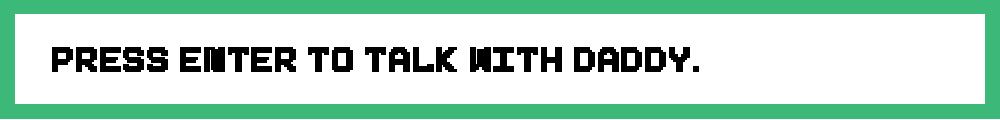
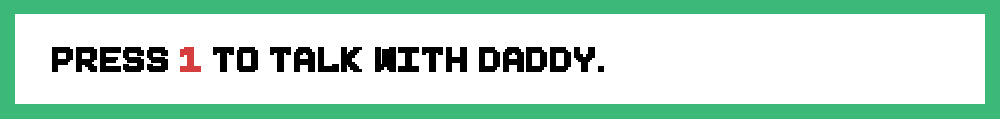
Trap1 state 4

Changed region(s): [[0.155, 0.375, 0.713, 0.6]]

diff --git a/SatoshiPajonpai/main.cpp b/SatoshiPajonpai/main.cpp
@@ -72,6 +72,9 @@ int long main()
 	sf::Texture mushroomTexture;
 	mushroomTexture.loadFromFile("assets/textures/Mushroom.png");
 
+	sf::Texture DocterDown;
+	DocterDown.loadFromFile("assets/textures/DocterDown.png");
+
 	// TextImage
 	sf::Texture foundKey;
 	foundKey.loadFromFile("assets/textImages/TextKey.png");
@@ -93,6 +96,12 @@ int long main()
 
 	sf::Texture TextTalkToDocter;
 	TextTalkToDocter.loadFromFile("assets/textImages/TextToTalkDocter.png");
+
+	sf::Texture TalkWithDocter;
+	TalkWithDocter.loadFromFile("assets/textImages/TextToWithDocter1.png");
+
+	sf::Texture TextDoorLocked;
+	TextDoorLocked.loadFromFile("assets/textImages/TextDoorLocked.png");
 
 	//==========================================================================================================================================//
 	// Clock 
@@ -187,7 +196,7 @@ int long main()
 	//==========================================================================================================================================// 
 	// State obj 
 
-	int state = 3;
+	int state = 1;
 	int pixel = 16;
 	int randData1;
 	int countDie = 0;
@@ -202,7 +211,7 @@ int long main()
 	while (true)
 	{
 		// status state //
-		bool checkPokeballTrap1 = false;
+		bool checkPokeballTrap1 = false; //-----> state 2
 		bool checkTrap2 = false;
 		bool checkExitTrap2 = false;
 		bool checkTrap3 = false;
@@ -215,6 +224,9 @@ int long main()
 		bool trap6_2 = false;
 		bool trap6_3 = false;
 		bool trap6_4 = false;
+
+		bool state4_CheckTrap1 = false;
+
 		
 		// Maps State //
 		if (state == 1)
@@ -266,7 +278,7 @@ int long main()
 
 			//Platform Init
 			Platform door(nullptr, sf::Vector2f(34.f, 10.f), sf::Vector2f(113.f * 64 / 16, 255.f * 64 / 16));
-			Platform die(&dieTexture, sf::Vector2f(58.f * 2, 94.f * 1.5), sf::Vector2f((16 * 7) * 4 - 23, 16 * 11 * 4));
+			Platform die(&dieTexture, sf::Vector2f(56.f * 2, 82.f * 1.5), sf::Vector2f((16 * 7) * 4 - 23, 16 * 11 * 4));
 
 			//Run Game
 			while (window.isOpen())
@@ -391,20 +403,20 @@ int long main()
 		{		
 			// Set Position
 			player.SetPosition(576, 751);
-
+		
 			// Background
 			sf::Texture backgroundState5Texture;
 			backgroundState5Texture.loadFromFile("assets/maps/Map2.png");
 			Platform Background2(&backgroundState5Texture, sf::Vector2f(576 * 64 / 16, 529 * 64 / 16), sf::Vector2f(576 * 64 / 32, 529 * 64 / 32));
 
 			// Platform init
-			Platform trap1Die(&dieTexture, sf::Vector2f(58.f * 2, 94.f * 1.5), sf::Vector2f((16 - 8) * 4, (368 - 8) * 4));
-			Platform trap2Die(&dieTexture, sf::Vector2f(58.f * 2, 94.f * 1.5), sf::Vector2f((368 - 8) * 4, (368 - 8) * 4));
+			Platform trap1Die(&dieTexture, sf::Vector2f(56.f * 2, 82.f * 1.5), sf::Vector2f((16 - 8) * 4, (368 - 8) * 4));
+			Platform trap2Die(&dieTexture, sf::Vector2f(56.f * 2, 82.f * 1.5), sf::Vector2f((368 - 8) * 4, (368 - 8) * 4));
 
-			Platform trap3Die(&dieUpTexture, sf::Vector2f(58.f * 2, 94.f * 1.5), sf::Vector2f((208 - 8) * 4, (464 - 8) * 4));
-			Platform trap4Die(&dieTexture, sf::Vector2f(58.f * 2, 94.f * 1.5), sf::Vector2f((496 - 8) * 4, (496 - 8) * 4));
-			Platform trap5Die(&dieTexture, sf::Vector2f(58.f * 2, 94.f * 1.5), sf::Vector2f((512 - 8) * 4, (448 - 8) * 4));
-			Platform trap6Die(&dieTexture, sf::Vector2f(58.f * 2, 94.f * 1.5), sf::Vector2f((496 - 8) * 4, (400 - 8) * 4));
+			Platform trap3Die(&dieUpTexture, sf::Vector2f(56.f * 2, 82.f * 1.5), sf::Vector2f((208 - 8) * 4, (464 - 8) * 4));
+			Platform trap4Die(&dieUpTexture, sf::Vector2f(56.f * 2, 82.f * 1.5), sf::Vector2f((496 - 8) * 4, (496 - 8) * 4));
+			Platform trap5Die(&dieUpTexture, sf::Vector2f(56.f * 2, 82.f * 1.5), sf::Vector2f((512 - 8) * 4, (448 - 8) * 4));
+			Platform trap6Die(&dieUpTexture, sf::Vector2f(56.f * 2, 82.f * 1.5), sf::Vector2f((496 - 8) * 4, (400 - 8) * 4));
 
 			Platform door1(nullptr, sf::Vector2f(64, 64), sf::Vector2f(576, 751 - 70));
 			Platform door2(nullptr, sf::Vector2f(15*4, 15*4), sf::Vector2f(500.5*4, 320*4));
@@ -774,7 +786,7 @@ int long main()
 					if (sf::Keyboard::isKeyPressed(sf::Keyboard::Num1))
 					{
 						Platform TextDieMedicineTrap3(&TextDieMedicine, sf::Vector2f(1000, 120), sf::Vector2f(player.GetPosition().x, player.GetPosition().y + 400));
-						Platform trap3Die(&dieTexture, sf::Vector2f(58.f * 2, 94.f * 1.5), sf::Vector2f(player.GetPosition().x, player.GetPosition().y));
+						Platform trap3Die(&dieTexture, sf::Vector2f(56.f * 2, 82.f * 1.5), sf::Vector2f(player.GetPosition().x, player.GetPosition().y));
 						//Die
 						std::cout << "\nDIE\n";
 						while (window.isOpen())
@@ -1203,7 +1215,8 @@ int long main()
 			}
 
 			// Platform init
-			Platform floorDocter(nullptr, sf::Vector2f(1.f, 80.f), sf::Vector2f((128 - 8) * 4, (80 - 8) * 4 - 20));
+			Platform floorDocter(nullptr, sf::Vector2f(5.f, 80.f), sf::Vector2f((128 - 8) * 4, (80 - 8) * 4 - 20));
+			Platform door(nullptr, sf::Vector2f(32.f * 4 - 20,  20.f), sf::Vector2f((112) * 4, (160) * 4));
 			
 			// Run Game
 			while (window.isOpen())
@@ -1260,6 +1273,12 @@ int long main()
 				//NPC Collision
 				Docter1.GetCollider().CheckCollision(playerCollision, 1.0f);
 				
+				//Goto State 4
+				if (player.GetGlobalBounds().intersects(door.GetGlobalBounds()))
+				{
+					state = 4;
+					break;
+				}
 
 				// Draw
 				view.setCenter(player.GetPosition());
@@ -1268,14 +1287,193 @@ int long main()
 				Background3.Draw(window);
 				player.Draw(window);
 				Docter1.Draw(window);
-				
-
+	
+				//Docter Text to Talk
 				if (floorDocter.GetGlobalBounds().intersects(player.GetGlobalBounds()))
 				{
 					Platform TalkToDocter(&TextTalkToDocter, sf::Vector2f(1000, 120), sf::Vector2f(player.GetPosition().x, player.GetPosition().y + 400));
+					Platform DocterAtHome(&DocterDown, sf::Vector2f(64, 80), sf::Vector2f((128 - 8) * 4, (80 - 8) * 4 - 25));
 					TalkToDocter.Draw(window);
+					if (sf::Keyboard::isKeyPressed(sf::Keyboard::Num1))
+					{
+						Platform BoxTalkWithDocter1(&TalkWithDocter, sf::Vector2f(1000, 120), sf::Vector2f(player.GetPosition().x, player.GetPosition().y + 400));
+						while (1)
+						{
+							// Close Window
+							sf::Event evnt;
+							while (window.pollEvent(evnt))
+							{
+								switch (evnt.type)
+								{
+								case sf::Event::Closed:
+									window.close();
+									break;
+								case sf::Event::Resized:
+									std::cout << "\Resized\n";
+									ResizeView(window, view);
+									break;
+								}
+							}
+							if (sf::Keyboard::isKeyPressed(sf::Keyboard::Return))
+							{
+								break;
+							}
+
+							Background3.Draw(window);
+							DocterAtHome.Draw(window);
+							player.Draw(window);
+							BoxTalkWithDocter1.Draw(window);
+
+							window.setView(view);
+							window.display();
+						}
+					}
 				}
 
+				window.setView(view);
+				window.display();
+			}
+		}
+		else if (state == 4)
+		{
+			// Set Position
+			player.SetPosition((512 - 8) * 4, (352 - 8) * 4);
+
+			// Background
+			sf::Texture backgroundState5Texture;
+			backgroundState5Texture.loadFromFile("assets/maps/Map2.png");
+			Platform Background2(&backgroundState5Texture, sf::Vector2f(576 * 64 / 16, 529 * 64 / 16), sf::Vector2f(576 * 64 / 32, 529 * 64 / 32));
+
+			// BitMap Init
+			std::vector<Bitmap> block0;
+			int outdoor[33][36] = {
+									{1, 1, 1, 1, 1, 1, 1, 1, 1, 1, 1, 1, 1, 1, 1, 1, 1, 1, 1, 1, 1, 1, 1, 1, 1, 1, 1, 1, 1, 1, 1, 1, 1, 1, 1, 1},
+									{1, 1, 1, 1, 0, 0, 0, 0, 0, 0, 0, 0, 0, 0, 0, 0, 0, 0, 0, 0, 0, 1, 1, 1, 1, 1, 1, 1, 1, 1, 1, 1, 1, 1, 1, 1},
+									{1, 0, 0, 0, 0, 0, 0, 0, 0, 0, 0, 0, 0, 0, 0, 0, 0, 0, 0, 0, 0, 1, 1, 1, 1, 1, 1, 1, 1, 1, 1, 1, 1, 1, 1, 1},
+									{1, 0, 0, 0, 0, 0, 0, 0, 1, 1, 1, 1, 1, 0, 0, 0, 0, 0, 0, 0, 0, 0, 0, 0, 0, 0, 1, 1, 1, 1, 1, 1, 1, 1, 1, 1},
+									{1, 0, 0, 0, 0, 1, 1, 1, 1, 1, 1, 1, 1, 0, 0, 0, 0, 0, 0, 0, 0, 0, 0, 0, 0, 0, 1, 1, 1, 1, 1, 1, 1, 1, 1, 1},
+									{1, 0, 0, 0, 0, 1, 1, 1, 1, 1, 1, 1, 1, 0, 0, 0, 0, 0, 0, 0, 0, 0, 0, 0, 0, 0, 1, 1, 1, 1, 1, 1, 1, 1, 1, 1},
+									{1, 0, 0, 0, 0, 1, 1, 1, 1, 1, 1, 1, 1, 1, 1, 0, 0, 0, 0, 0, 0, 0, 0, 0, 0, 0, 1, 1, 1, 1, 1, 1, 1, 1, 1, 1},
+									{1, 0, 0, 0, 0, 1, 1, 1, 1, 1, 1, 1, 1, 1, 1, 0, 0, 0, 0, 0, 0, 0, 0, 0, 0, 0, 1, 1, 1, 1, 1, 1, 1, 1, 1, 1},
+									{1, 0, 0, 0, 0, 1, 1, 1, 1, 1, 1, 1, 1, 1, 1, 1, 0, 0, 0, 0, 0, 0, 0, 1, 1, 1, 1, 1, 1, 1, 1, 1, 1, 1, 1, 1},
+									{1, 0, 0, 0, 0, 1, 1, 1, 1, 1, 1, 1, 1, 1, 1, 1, 0, 0, 0, 0, 0, 0, 0, 1, 1, 1, 1, 1, 1, 1, 1, 1, 1, 1, 1, 1},
+									{1, 0, 0, 0, 0, 1, 1, 1, 1, 1, 1, 1, 1, 1, 1, 1, 0, 0, 0, 0, 0, 0, 0, 1, 1, 1, 1, 1, 1, 1, 1, 1, 1, 1, 1, 1},
+									{1, 0, 0, 0, 0, 0, 0, 1, 0, 0, 0, 0, 0, 0, 0, 0, 0, 0, 0, 0, 0, 1, 1, 1, 1, 1, 1, 1, 1, 1, 1, 1, 1, 1, 1, 1},
+									{1, 0, 0, 0, 0, 0, 0, 0, 0, 0, 0, 0, 0, 0, 0, 0, 0, 0, 0, 0, 0, 1, 1, 1, 1, 1, 1, 1, 1, 1, 1, 1, 1, 1, 1, 1},
+									{1, 1, 1, 0, 0, 0, 0, 0, 0, 0, 0, 0, 0, 0, 0, 0, 0, 0, 0, 1, 1, 1, 1, 1, 1, 1, 1, 1, 1, 1, 1, 1, 1, 1, 1, 1},
+									{1, 1, 1, 1, 0, 0, 1, 0, 0, 0, 0, 1, 0, 0, 0, 0, 0, 0, 0, 1, 1, 1, 1, 1, 1, 1, 1, 1, 1, 1, 1, 1, 1, 1, 1, 1},
+									{1, 1, 1, 1, 1, 1, 1, 0, 0, 0, 0, 1, 1, 1, 1, 1, 1, 1, 1, 1, 1, 1, 1, 1, 1, 1, 1, 1, 1, 1, 1, 1, 1, 1, 1, 1},
+									{1, 1, 1, 1, 1, 1, 1, 0, 0, 0, 0, 1, 1, 1, 1, 1, 1, 1, 1, 1, 1, 1, 1, 1, 1, 1, 1, 1, 1, 1, 1, 1, 1, 1, 1, 1},
+									{1, 1, 1, 1, 1, 1, 1, 0, 0, 0, 0, 1, 1, 1, 1, 1, 1, 1, 1, 1, 1, 1, 1, 1, 1, 1, 1, 1, 1, 1, 1, 1, 1, 1, 1, 1},
+									{1, 1, 1, 1, 1, 1, 1, 0, 0, 0, 0, 1, 1, 1, 1, 1, 1, 1, 1, 1, 1, 1, 1, 1, 0, 0, 1, 1, 1, 1, 1, 1, 1, 1, 1, 1},
+									{1, 1, 1, 1, 1, 1, 1, 0, 0, 0, 0, 1, 1, 1, 1, 1, 1, 1, 1, 1, 1, 1, 1, 1, 0, 0, 0, 0, 1, 1, 1, 1, 1, 1, 1, 1},
+									{0, 0, 0, 0, 0, 0, 1, 0, 0, 0, 0, 1, 0, 0, 0, 0, 0, 1, 0, 0, 0, 0, 0, 1, 0, 0, 0, 0, 1, 1, 0, 0, 1, 1, 1, 1},
+									{0, 0, 0, 0, 0, 0, 1, 0, 0, 0, 0, 1, 0, 0, 0, 0, 0, 1, 0, 0, 0, 0, 0, 1, 0, 0, 0, 0, 0, 1, 0, 0, 1, 1, 1, 1},
+									{0, 0, 1, 1, 1, 1, 1, 0, 0, 0, 0, 1, 0, 0, 1, 0, 0, 1, 0, 0, 1, 0, 0, 1, 1, 1, 1, 1, 1, 1, 0, 0, 1, 0, 0, 0},
+									{0, 0, 0, 0, 0, 0, 0, 0, 0, 0, 0, 0, 0, 0, 1, 0, 0, 0, 0, 0, 1, 0, 0, 0, 0, 0, 0, 0, 0, 0, 0, 0, 1, 0, 0, 0},
+									{0, 0, 0, 0, 0, 0, 0, 0, 0, 0, 0, 0, 0, 0, 1, 0, 0, 0, 0, 0, 1, 0, 0, 0, 0, 0, 0, 0, 0, 0, 0, 0, 1, 0, 0, 0},
+									{0, 0, 1, 1, 1, 1, 1, 1, 0, 0, 1, 1, 1, 1, 1, 1, 1, 1, 1, 1, 1, 1, 1, 1, 1, 1, 1, 1, 1, 1, 0, 0, 1, 0, 0, 0},
+									{0, 0, 1, 0, 0, 0, 0, 1, 0, 0, 1, 0, 0, 0, 0, 0, 0, 0, 0, 0, 0, 0, 0, 0, 0, 0, 0, 0, 0, 0, 0, 0, 1, 0, 0, 0},
+									{0, 0, 1, 0, 0, 0, 0, 0, 0, 0, 1, 0, 0, 0, 0, 0, 0, 0, 0, 0, 0, 0, 0, 0, 0, 0, 0, 0, 0, 0, 0, 0, 1, 0, 0, 0},
+									{0, 0, 1, 0, 0, 0, 0, 0, 0, 0, 1, 0, 0, 1, 0, 0, 1, 1, 1, 1, 1, 1, 1, 1, 1, 1, 1, 1, 1, 1, 0, 0, 1, 0, 0, 0},
+									{0, 0, 1, 0, 0, 0, 0, 1, 0, 0, 1, 0, 0, 1, 0, 0, 1, 0, 0, 0, 0, 0, 0, 0, 0, 0, 0, 0, 0, 1, 0, 0, 1, 0, 0, 0},
+									{0, 0, 1, 1, 1, 1, 1, 1, 0, 0, 1, 0, 0, 1, 0, 0, 1, 1, 1, 1, 1, 1, 1, 1, 1, 1, 1, 1, 1, 1, 0, 0, 1, 0, 0, 0},
+									{0, 0, 1, 0, 0, 0, 0, 0, 0, 0, 0, 0, 0, 1, 0, 0, 0, 0, 0, 0, 0, 0, 0, 0, 0, 0, 0, 0, 0, 0, 0, 0, 1, 0, 0, 0},
+									{0, 0, 1, 0, 0, 0, 0, 0, 0, 0, 0, 0, 0, 1, 0, 0, 0, 0, 0, 0, 0, 0, 0, 0, 0, 0, 0, 0, 0, 0, 0, 0, 1, 0, 0, 0},
+			};
+
+			// DrawBitMap
+			for (int mapX = 0; mapX < 36; mapX++)
+			{
+				for (int mapY = 0; mapY < 33; mapY++)
+				{
+					if (outdoor[mapY][mapX] == 1)
+					{
+						Bitmap outdoor(nullptr, sf::Vector2f(((mapX) * 64.f) + 32.f, ((mapY) * 64.f) + 32.f), sf::Vector2f(64.f, 64.f));
+						block0.push_back(outdoor);
+					}
+				}
+			}
+
+			// Platform init
+			Platform door1(nullptr, sf::Vector2f(64, 64), sf::Vector2f(576, 751 - 70));
+			Platform door2(nullptr, sf::Vector2f(15 * 4, 15 * 4), sf::Vector2f(500.5 * 4, 320 * 4));
+
+			Platform trap1Stone1(&stoneTexture, sf::Vector2f(64, 64), sf::Vector2f((480 - 8) * 4, (512 - 8) * 4));
+			Platform trap1Stone2(&stoneTexture, sf::Vector2f(64, 64), sf::Vector2f((480 - 8) * 4, (528 - 8) * 4));
+
+			while (window.isOpen())
+			{
+				// DeltaTime
+				deltaTime = clock.restart().asSeconds();
+
+				// Close Window
+				sf::Event evnt;
+				while (window.pollEvent(evnt))
+				{
+					switch (evnt.type)
+					{
+					case sf::Event::Closed:
+						window.close();
+						break;
+					case sf::Event::Resized:
+						std::cout << "\Resized\n";
+						ResizeView(window, view);
+						break;
+					}
+				}
+
+				// Player Update
+				player.Update(deltaTime);
+
+				// Window Collision
+				if (player.GetPosition().x < 0 + 29)
+				{
+					player.SetPosition(29, player.GetPosition().y);
+				}
+				if (player.GetPosition().y + 46 > 529 * 64 / 16)
+				{
+					player.SetPosition(player.GetPosition().x, 529 * 64 / 16 - 46);
+				}
+
+				// BitMap Collisio n
+				Collider playerCollision = player.GetCollider();
+				for (int i = 0; i < block0.size(); i++)
+					block0[i].getCollider().CheckCollision(playerCollision, 1.0f);
+
+				//Platform Collision  
+
+
+				// DrawBackground
+				view.setCenter(player.GetPosition());
+				std::cout << "x = " << player.GetPosition().x << " y = " << player.GetPosition().y << std::endl;
+				window.clear();
+				Background2.Draw(window);
+				
+				// DrawPlayer
+				player.Draw(window);
+				
+				//Trap1
+				if (player.GetPosition().x < 448 * 4 && player.GetPosition().y > 496)
+				{
+					state4_CheckTrap1 = true;
+				}
+				if (state4_CheckTrap1)
+				{
+					trap1Stone1.GetCollider().CheckCollision(playerCollision, 1.0f);
+					trap1Stone2.GetCollider().CheckCollision(playerCollision, 1.0f);
+					trap1Stone1.Draw(window);
+					trap1Stone2.Draw(window);
+				}
+
+				// Door1 && Door2 Collision
+				if (player.GetGlobalBounds().intersects(door1.GetGlobalBounds()) || player.GetGlobalBounds().intersects(door2.GetGlobalBounds()))
+				{
+					Platform DoorLocked(&TextDoorLocked, sf::Vector2f(1000, 120), sf::Vector2f(player.GetPosition().x, player.GetPosition().y + 400));
+					DoorLocked.Draw(window);
+				}
+
+				//Window Display
 				window.setView(view);
 				window.display();
 			}
